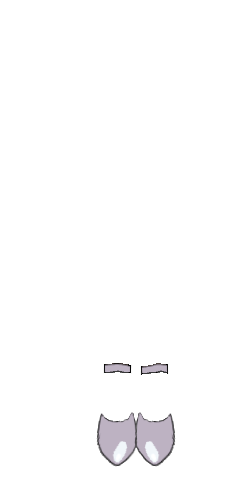
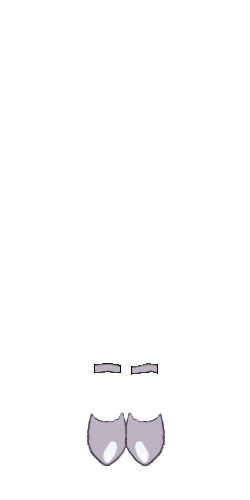
fix: 修改花边连衣裙优先级，修正上锁高跟鞋图片

Changed region(s): [[0.336, 0.81, 0.7, 0.93], [0.364, 0.72, 0.672, 0.75]]

diff --git a/src/components/衣服和装饰/衣服/花边连衣裙.js b/src/components/衣服和装饰/衣服/花边连衣裙.js
@@ -6,7 +6,7 @@ const asset = {
     Random: false,
     Top: 0,
     Left: 0,
-    Priority: 30,
+    Priority: 27,
     DefaultColor: [
         "#3F3F3F",
         "#3F3F3F",
